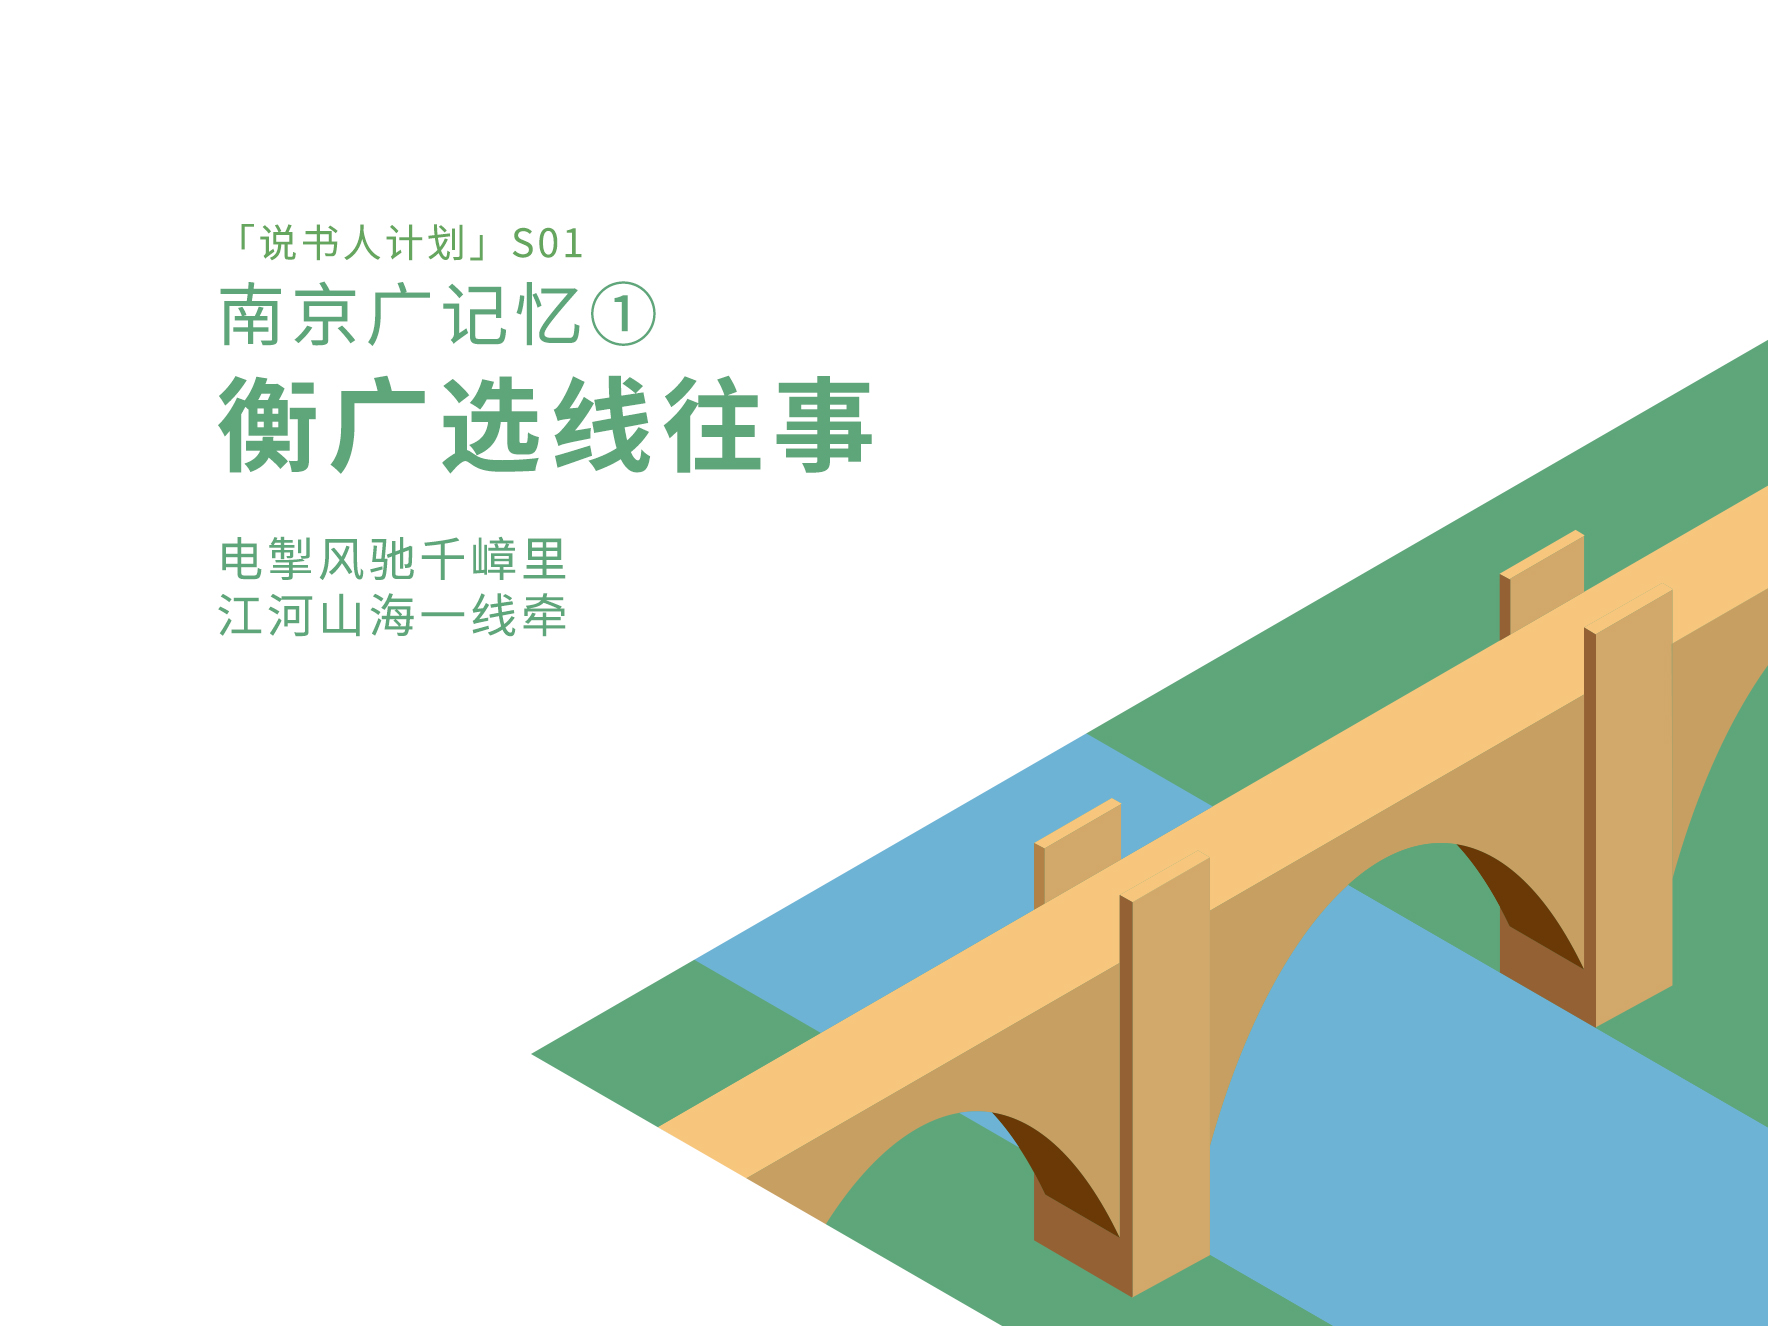
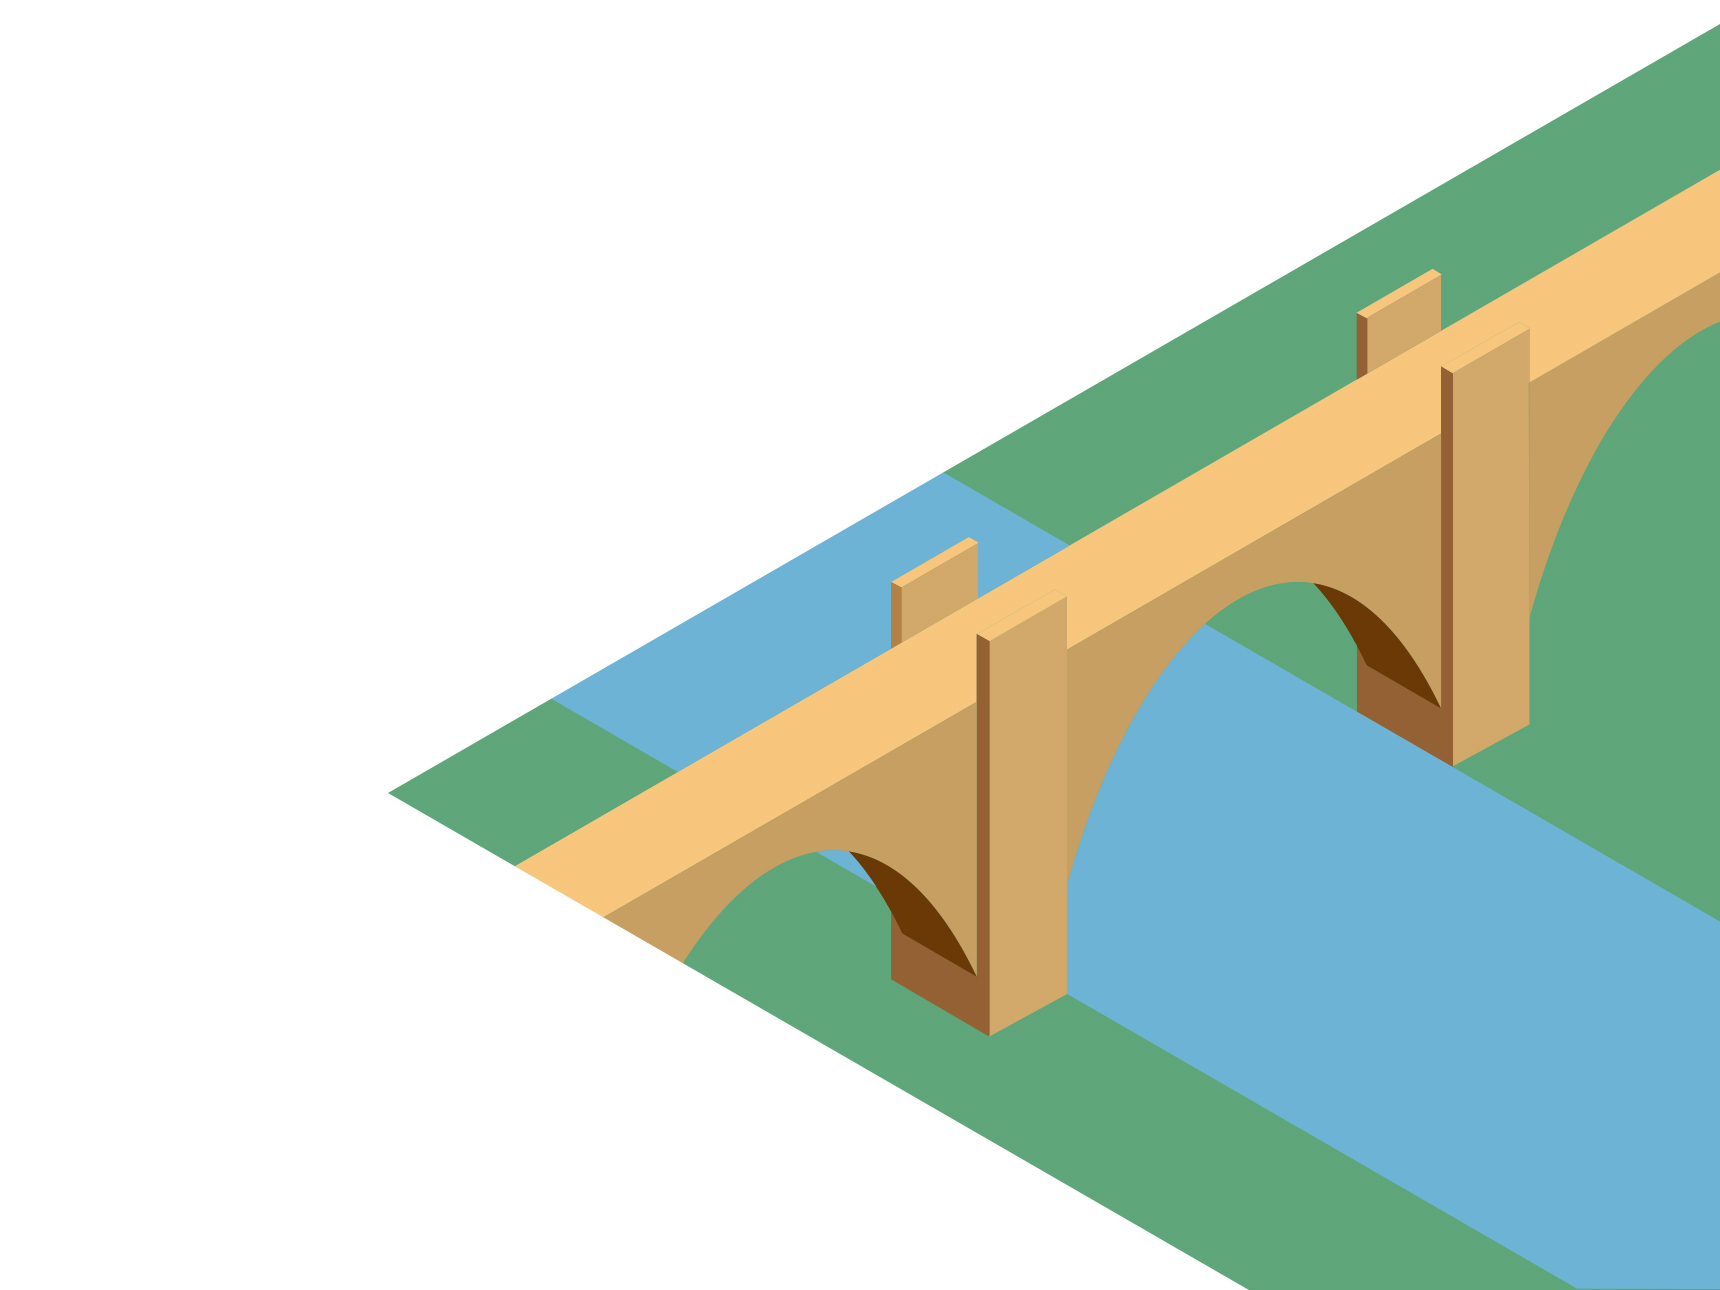
init

diff --git a/index.html b/index.html
@@ -62,13 +62,14 @@
 					<img class="card-img-top" src="res/img/4.jpg">
 					<div class="card-body">
 						<h5 class="card-title" title="电掣风驰千嶂里 江河山海一线牵">电掣风驰千嶂里 江河山海一线牵</h5>
-						<p class="card-text">南京广记忆①：衡广选线往事</p>
+						<p class="card-text">南京广记忆 衡广选线往事</p>
 					</div>
 				</div>
 				</a>
 			</div>
 
 			<div class="col-md-4 col-sm-12">
+				<a href="topic-2.html">
 				<div class="card mt-4">
 					<img class="card-img-top" src="res/img/4A.jpg">
 					<div class="card-body">
@@ -76,6 +77,7 @@
 						<p class="card-text">南京广郴州段老线勘测</p>
 					</div>
 				</div>
+				</a>
 			</div>
 
 			<div class="col-md-4 col-sm-12">
@@ -174,7 +176,7 @@
 			<div class="col-md-4 col-sm-12">
 				<a href="https://oldjingguang.github.io/MapInsight/USGS_GZ">
 				<div class="card mt-4">
-					<img class="card-img-top" src="res/img/GZ.png">
+					<img class="card-img-top" src="res/img/GZ.jpg">
 					<div class="card-body">
 						<h5 class="card-title" title="USGS广州市卫星图">USGS广州市卫星图</h5>
 						<p class="card-text">1969</p>
@@ -186,7 +188,7 @@
 			<div class="col-md-4 col-sm-12">
 				<a href="https://oldjingguang.github.io/MapInsight/USGS_HY">
 				<div class="card mt-4">
-					<img class="card-img-top" src="res/img/HY.png">
+					<img class="card-img-top" src="res/img/HY.jpg">
 					<div class="card-body">
 						<h5 class="card-title" title="USGS衡阳市卫星图">USGS衡阳市卫星图</h5>
 						<p class="card-text">1969</p>
@@ -200,7 +202,7 @@
 			<div class="col-md-4 col-sm-12">
 				<a href="https://oldjingguang.github.io/MapInsight/USGS_CP">
 				<div class="card mt-4">
-					<img class="card-img-top" src="res/img/CP.png">
+					<img class="card-img-top" src="res/img/CP.jpg">
 					<div class="card-body">
 						<h5 class="card-title" title="USGS郴州-坪石交界卫星图">USGS郴州-坪石交界卫星图</h5>
 						<p class="card-text">1969</p>
@@ -212,7 +214,7 @@
 			<div class="col-md-4 col-sm-12">
 				<a href="https://oldjingguang.github.io/MapInsight/USGS_PS">
 				<div class="card mt-4">
-					<img class="card-img-top" src="res/img/PS.png">
+					<img class="card-img-top" src="res/img/PS.jpg">
 					<div class="card-body">
 						<h5 class="card-title" title="USGS郴州-坪石交界卫星图">USGS坪石武江沿岸卫星图</h5>
 						<p class="card-text">1969</p>

diff --git a/topic-2.html b/topic-2.html
@@ -1,7 +1,7 @@
 <html lang="zh-CN">
 <head>
 	<meta charset="utf-8">
-	<title>电掣风驰千嶂里 江河山海一线牵 / 老京广狂魔</title>
+	<title>风尘漫路笛声起 光阴犹忆何处寻 / 老京广狂魔</title>
 	<!-- Site CSS -->
 	<link rel="stylesheet" href="css/bootstrap.css">
 	<link rel="stylesheet" href="css/base.css">
@@ -19,11 +19,11 @@
 </head>
 
 <body>
-	<nav class="navbar fixed-top navbar-expand-lg navbar-light bg-light">
+	<nav class="navbar navbar-expand-lg navbar-dark bg-dark">
 		<center>
 		<div class="navbar-nav">
 			<a class="nav-item nav-link" href="https://oldjingguang.github.io">首页 <span class="sr-only">(current)</span></a>
-			<a class="nav-item nav-link active" href="#topic">专题</a>
+			<a class="nav-item nav-link active" href="https://oldjingguang.github.io/#topic">专题</a>
 			<a class="nav-item nav-link" href="https://oldjingguang.github.io/#maps">地图</a>
 			<a class="nav-item nav-link" href="https://oldjingguang.github.io/#galleries">影像</a>
 			<a class="nav-item nav-link" href="https://oldjingguang.github.io/#3D">3D</a>
@@ -31,12 +31,12 @@
 		</center>
 	</nav>
 
-	<div class="jumbotron jumbotron-fluid jumbohead1" style="background-image:url(res/img/4blur.jpg)">
+	<div class="jumbotron jumbotron-fluid jumbohead1" style="background-image:url(res/img/4Ablur.jpg)">
 		<div class="container">
 			<div class="row">
 				<div class="col-md-10 col-sm-12">
-				<h1 class="display-4">电掣风驰千嶂里<br>江河山海一线牵</h1>
-				<p class="lead">南京广记忆①：衡广选线往事</p>
+				<h1 class="display-4">风尘漫路笛声起<br>光阴犹忆何处寻</h1>
+				<p class="lead">南京广郴州段老线勘测</p>
 				</div>
 			</div>
 		</div>
@@ -54,6 +54,7 @@
 				<br>
 				<br>
 				<p class="lead">
+					<a href="download.html"><b>本站资料下载</b></a> · 
 					<a href="https://zhuanlan.zhihu.com/c_178791797"><b>中国废旧铁路</b></a> · 
 					<a href="https://www.trainnets.com"><b>非人狂想屋</b></a>
 				</p>

diff --git a/topic-1.html b/topic-1.html
@@ -19,11 +19,11 @@
 </head>
 
 <body>
-	<nav class="navbar fixed-top navbar-expand-lg navbar-light bg-light">
+	<nav class="navbar navbar-expand-lg navbar-dark bg-dark">
 		<center>
 		<div class="navbar-nav">
 			<a class="nav-item nav-link" href="https://oldjingguang.github.io">首页 <span class="sr-only">(current)</span></a>
-			<a class="nav-item nav-link active" href="#topic">专题</a>
+			<a class="nav-item nav-link active" href="https://oldjingguang.github.io/#topic">专题</a>
 			<a class="nav-item nav-link" href="https://oldjingguang.github.io/#maps">地图</a>
 			<a class="nav-item nav-link" href="https://oldjingguang.github.io/#galleries">影像</a>
 			<a class="nav-item nav-link" href="https://oldjingguang.github.io/#3D">3D</a>
@@ -36,7 +36,7 @@
 			<div class="row">
 				<div class="col-md-10 col-sm-12">
 				<h1 class="display-4">电掣风驰千嶂里<br>江河山海一线牵</h1>
-				<p class="lead">南京广记忆①：衡广选线往事</p>
+				<p class="lead">南京广记忆 衡广选线往事</p>
 				</div>
 			</div>
 		</div>
@@ -53,7 +53,8 @@
 				<h4>更多</h4>
 				<br>
 				<br>
-				<p class="lead">
+				<p class="lead">					
+					<a href="download.html"><b>本站资料下载</b></a> · 
 					<a href="https://zhuanlan.zhihu.com/c_178791797"><b>中国废旧铁路</b></a> · 
 					<a href="https://www.trainnets.com"><b>非人狂想屋</b></a>
 				</p>

diff --git a/css/base.css b/css/base.css
@@ -13,16 +13,11 @@
 }
 
 .jumbohead1{
-	background-color:#fff!important;
-	background-size:80%;
 	background-repeat:no-repeat;
-	background-position: bottom right;
-	margin-top: 50px;
+	background-position: center right;
 }
-@media(max-width: 768px){
-	.jumbohead1{
-		background-size: 95%
-	}
+.jumbohead1 p,.jumbohead1 h1{
+	color: #fff
 }
 
 .card-title,.card-text{
